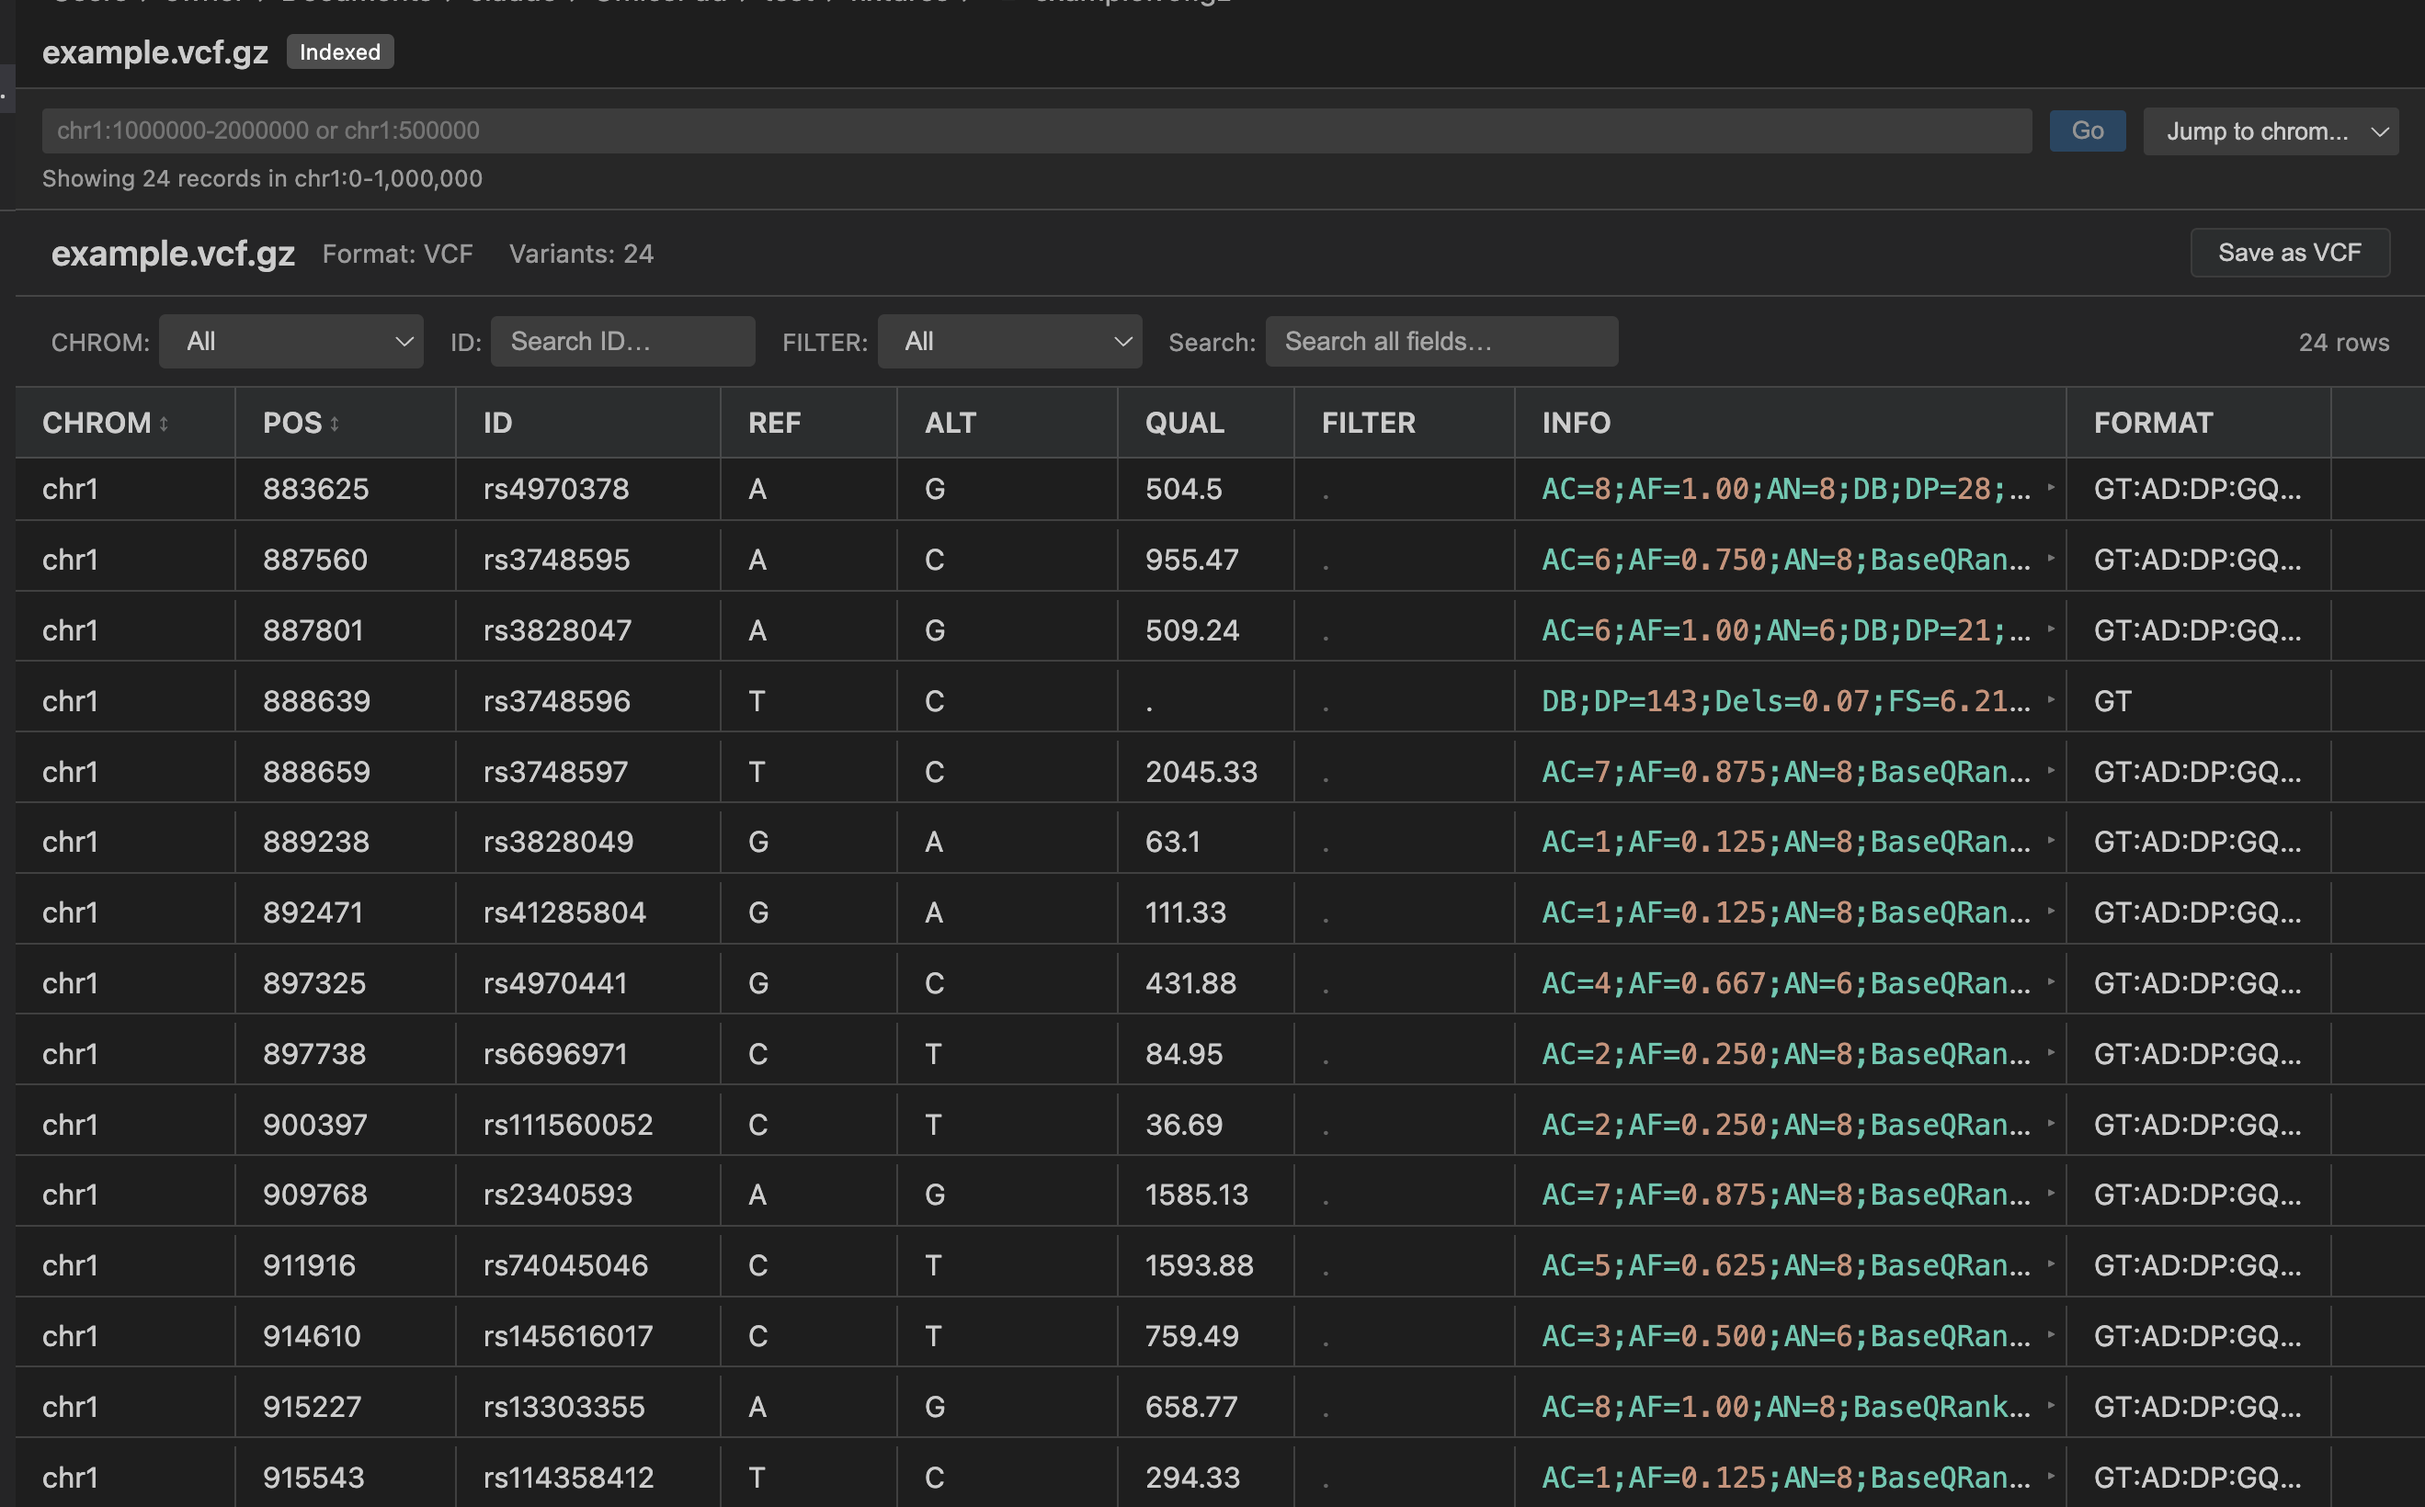
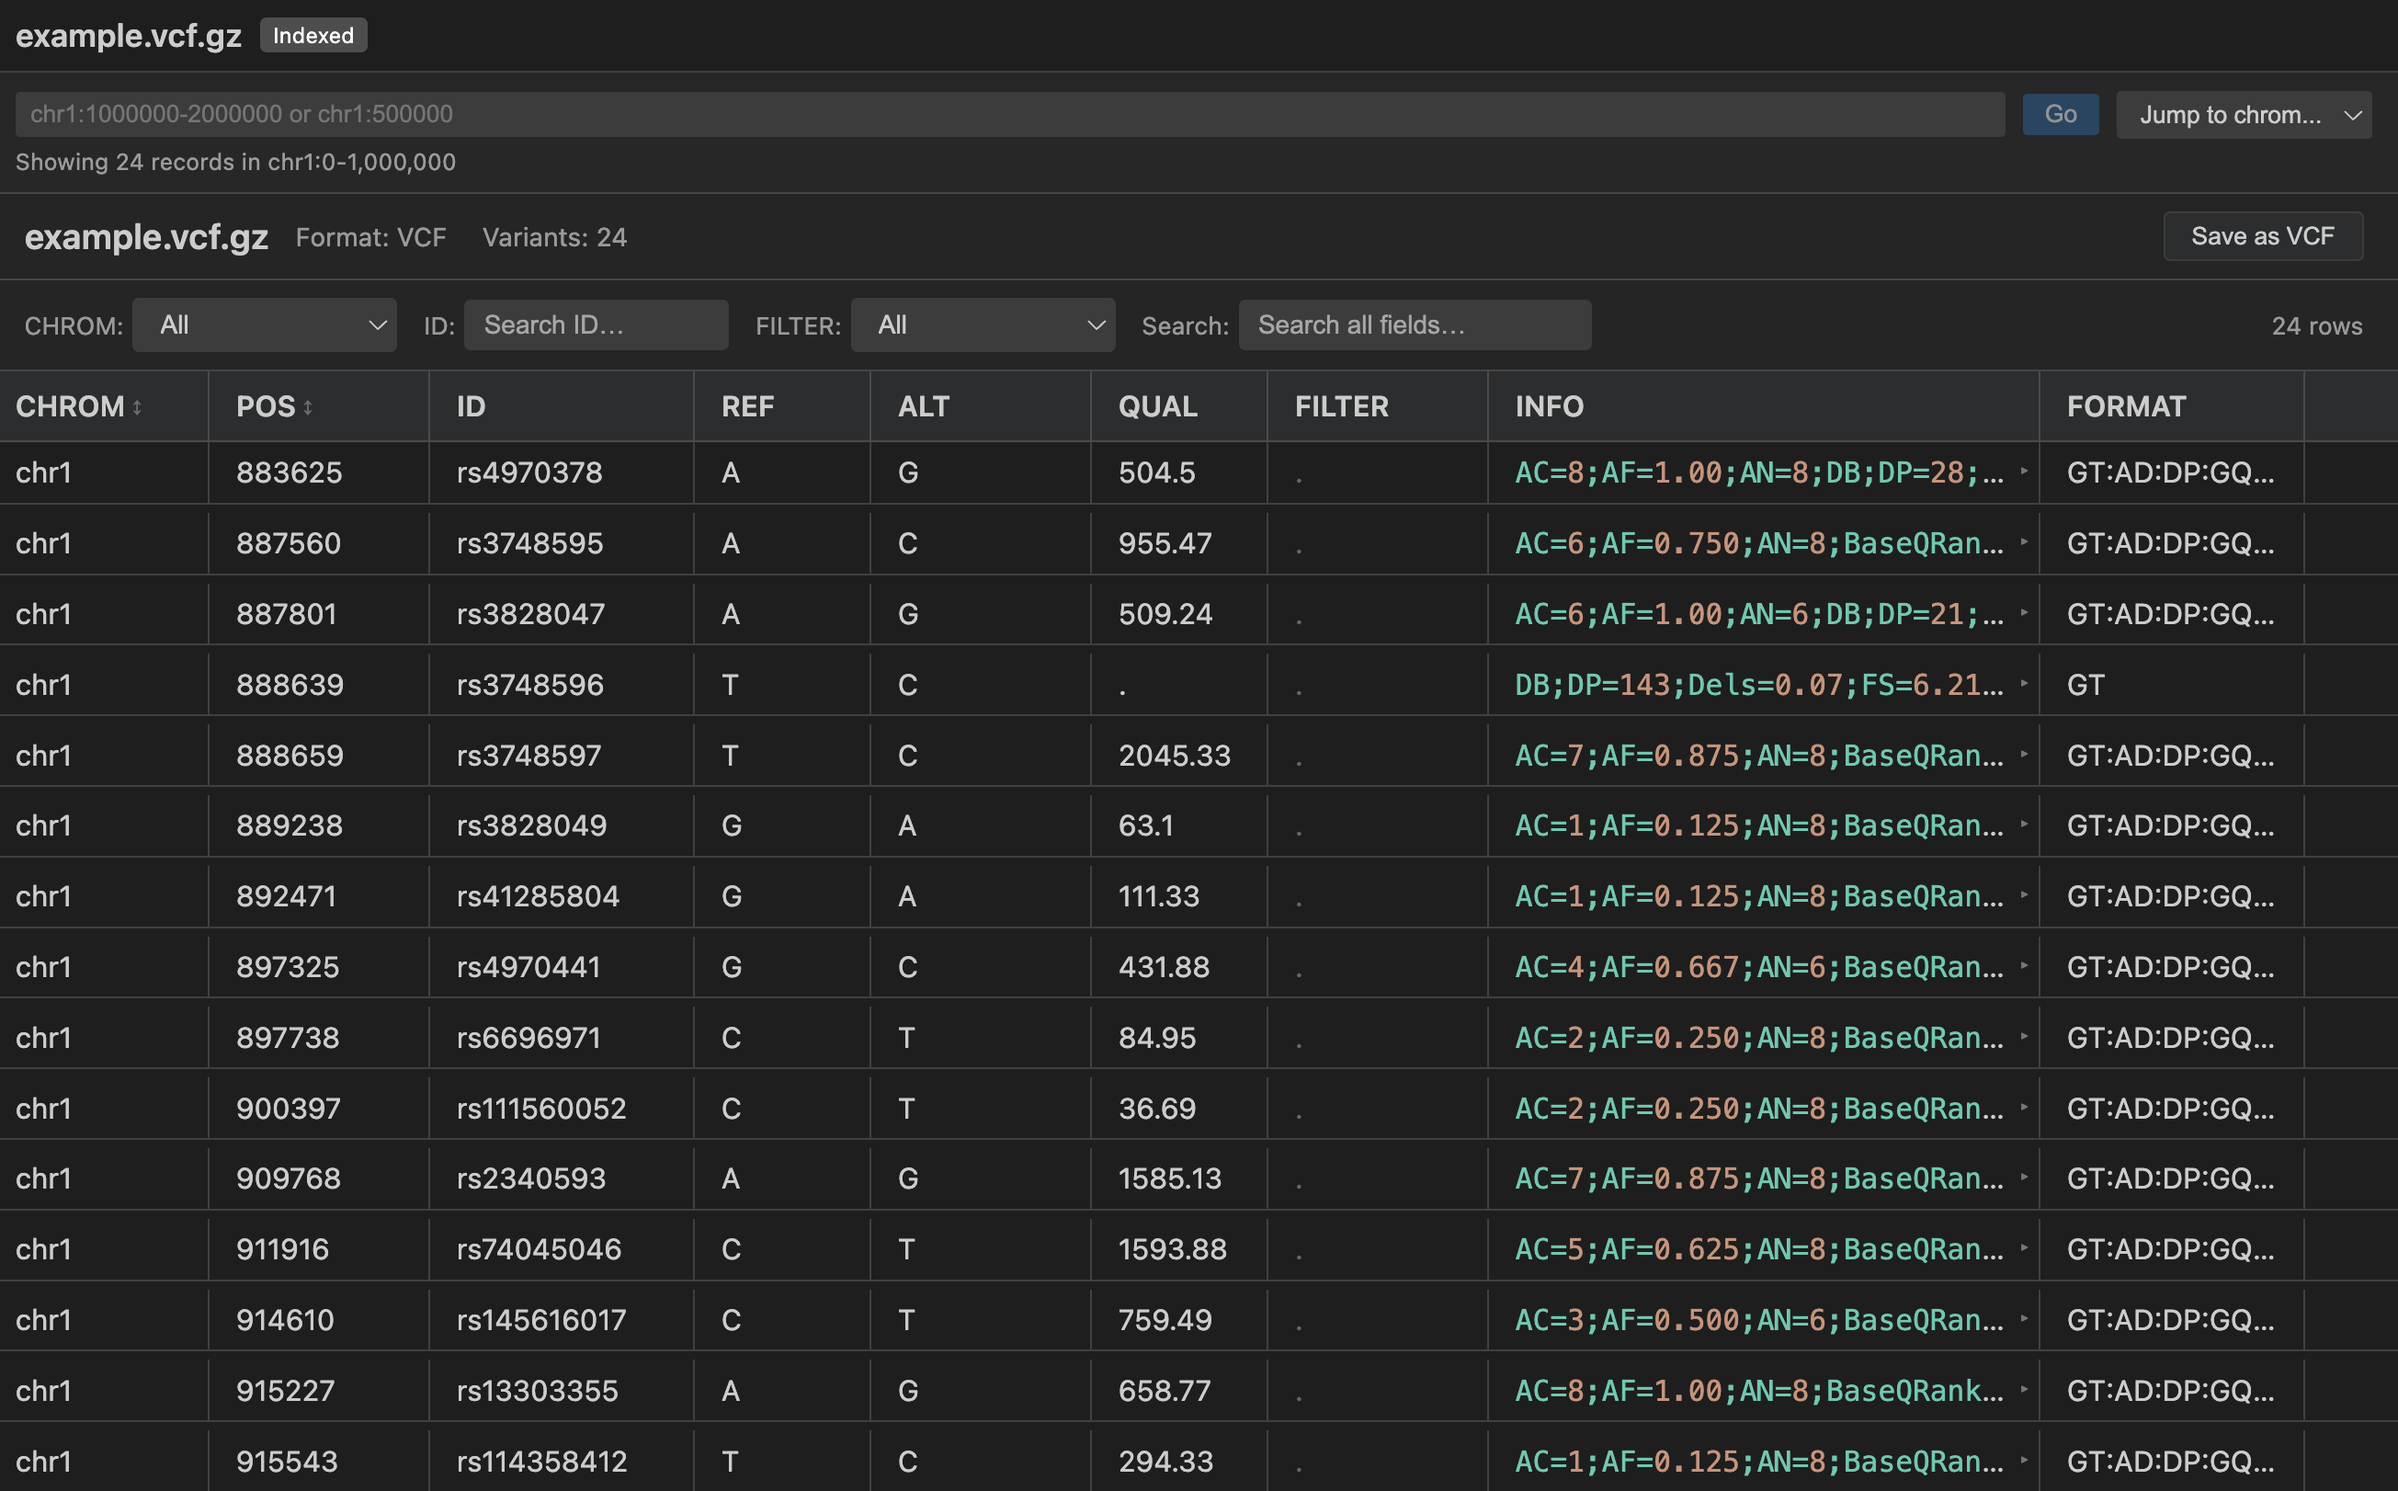
Remove duplicate diagnostics screenshot, update region navigator image

diff --git a/README.md b/README.md
@@ -16,8 +16,6 @@ Every diagnostic carries a rule code and a clickable link to the relevant format
 
 ![Hovering a diagnostic squiggle shows the rule code with a clickable link to the format specification](docs/spec-validation.png)
 
-![Strict mode diagnostics showing rule codes and squiggles on a VCF file with cross-field errors](docs/strict-validation.png)
-
 Three validation levels:
 
 | Level | What it catches |
